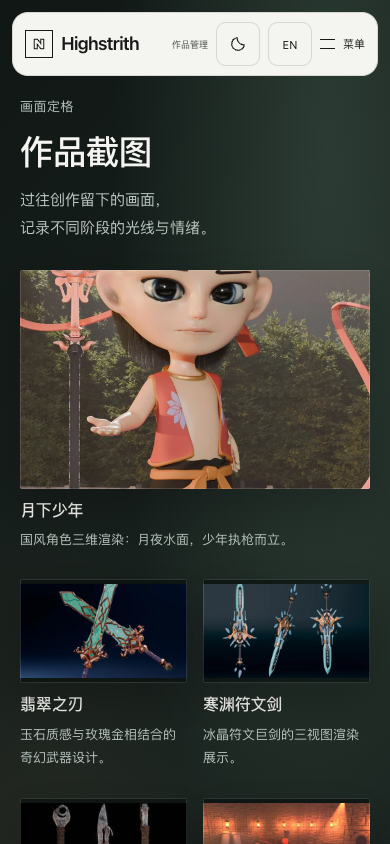
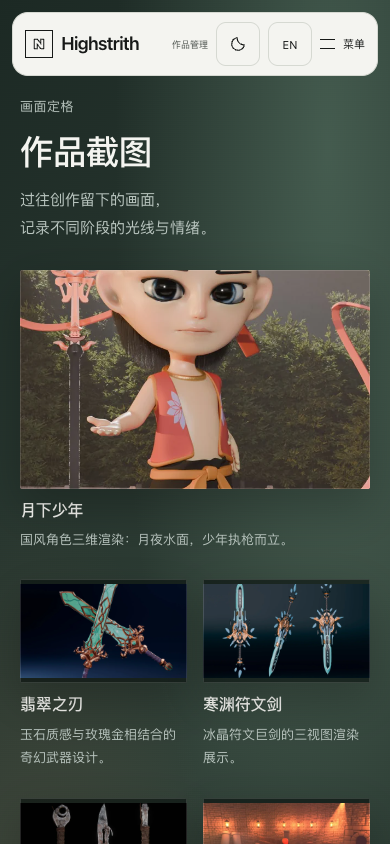
fix: distinguish dark chapters by theme

diff --git a/assets/chapter-scenes.css b/assets/chapter-scenes.css
@@ -9,14 +9,14 @@
   isolation: isolate;
   overflow: clip;
   color: #fff;
-  background: #10251f;
+  background: #18372e;
 }
 .production-chapter-inner { min-width: 0; }
 .production-scene { position: absolute; z-index: -1; inset: 0; pointer-events: none; }
 .production-scene img { width: 100%; height: 100%; object-fit: cover; object-position: 62% center; }
 .production-scene::after {
   content: ''; position: absolute; inset: 0;
-  background: linear-gradient(180deg, rgb(5 15 14 / .6), transparent 44%), linear-gradient(0deg, rgb(5 15 14 / .96), rgb(5 15 14 / .2) 80%), linear-gradient(90deg, rgb(7 28 24 / .88), transparent 85%);
+  background: linear-gradient(180deg, rgb(9 25 22 / .52), transparent 42%), linear-gradient(0deg, rgb(10 24 20 / .92), rgb(10 24 20 / .18) 80%), linear-gradient(90deg, rgb(18 45 37 / .78), transparent 84%);
 }
 #in-progress .section-heading { margin-bottom: clamp(32px, 5svh, 56px); }
 #in-progress .section-heading h2 { font-size: clamp(36px, 3.6vw, 56px); }
@@ -114,9 +114,9 @@
 }
 #home > #stills::before {
   background:
-    radial-gradient(ellipse at 84% 10%, rgb(87 119 101 / .34), transparent 46%),
-    radial-gradient(ellipse at 8% 82%, rgb(158 105 69 / .14), transparent 42%),
-    linear-gradient(135deg, #101715 0%, #1b2420 52%, #101514 100%);
+    radial-gradient(ellipse at 84% 10%, rgb(107 141 121 / .44), transparent 46%),
+    radial-gradient(ellipse at 8% 82%, rgb(180 124 84 / .2), transparent 42%),
+    linear-gradient(135deg, #1c2924 0%, #314138 52%, #18241f 100%);
 }
 #stills .still-media {
   background: rgb(4 10 8 / .58);
@@ -154,8 +154,8 @@
 /* Portrait and contact remain quieter anchors at the end of the page. */
 #home > #about {
   background:
-    radial-gradient(ellipse at 22% 44%, rgb(70 91 79 / .36), transparent 44%),
-    linear-gradient(120deg, #151c19 0%, #111413 100%);
+    radial-gradient(ellipse at 22% 44%, rgb(88 112 99 / .42), transparent 44%),
+    linear-gradient(120deg, #25302a 0%, #171d1a 100%);
 }
 #home > #contact::before {
   background:

diff --git a/assets/theme.css b/assets/theme.css
@@ -29,6 +29,15 @@
 [data-theme="dark"] .motion-marquee { background: var(--paper); color: var(--muted); border-color: var(--line); }
 [data-theme="dark"] :is(.text-link, .hero-foot a, .footer-top a, .contact-details a, .tools-secondary a, .progress-return, .progress-index a, .comment-toggle, .view-switch button, .production-strip-controls button, .work-filters button, #musicToggle) { text-decoration-color: currentColor; }
 /* Homepage ambient chapters keep the same spatial hierarchy in dark mode. */
+[data-theme="dark"] #home > #in-progress {
+  background: #07110e;
+}
+[data-theme="dark"] #in-progress .production-scene::after {
+  background:
+    linear-gradient(180deg, rgb(0 7 5 / .74), transparent 42%),
+    linear-gradient(0deg, rgb(0 7 5 / .98), rgb(0 7 5 / .24) 80%),
+    linear-gradient(90deg, rgb(2 18 13 / .94), transparent 84%);
+}
 [data-theme="dark"] #home > .hero::before {
   background:
     radial-gradient(ellipse at 16% 8%, rgb(157 100 65 / .2), transparent 42%),
@@ -43,9 +52,9 @@
 }
 [data-theme="dark"] #home > #stills::before {
   background:
-    radial-gradient(ellipse at 84% 10%, rgb(67 100 81 / .3), transparent 46%),
-    radial-gradient(ellipse at 8% 82%, rgb(120 77 51 / .14), transparent 42%),
-    linear-gradient(135deg, #0c1210 0%, #151d19 52%, #0c1110 100%);
+    radial-gradient(ellipse at 84% 10%, rgb(41 73 56 / .26), transparent 46%),
+    radial-gradient(ellipse at 8% 82%, rgb(91 57 37 / .08), transparent 42%),
+    linear-gradient(135deg, #070c0a 0%, #0e1612 52%, #060a09 100%);
 }
 [data-theme="dark"] #home > #projects {
   background:
@@ -61,8 +70,8 @@
 }
 [data-theme="dark"] #home > #about {
   background:
-    radial-gradient(ellipse at 22% 44%, rgb(53 76 62 / .32), transparent 44%),
-    linear-gradient(120deg, #121815 0%, #0e1110 100%);
+    radial-gradient(ellipse at 22% 44%, rgb(31 56 43 / .34), transparent 44%),
+    linear-gradient(120deg, #0a100d 0%, #070a09 100%);
 }
 [data-theme="dark"] #home > #contact::before {
   background:

diff --git a/index.html b/index.html
@@ -25,9 +25,9 @@
   <link rel="stylesheet" href="assets/director-word.css?v=20261030-word2">
   <link rel="stylesheet" href="assets/contact-rows.css?v=20261030-rows3">
   <link rel="stylesheet" href="assets/motion-extra.css?v=20261030-m2">
-  <link rel="stylesheet" href="assets/theme.css?v=20261101-ambient1">
+  <link rel="stylesheet" href="assets/theme.css?v=20261101-ambient2">
   <link rel="stylesheet" href="assets/home-modules.css?v=20261101-reel-screen">
-  <link rel="stylesheet" href="assets/chapter-scenes.css?v=20261101-ambient1">
+  <link rel="stylesheet" href="assets/chapter-scenes.css?v=20261101-ambient2">
 </head>
 <body>
   <a class="skip-link" href="#works" data-i18n="skip">跳转到作品</a>

diff --git a/tests/chapter-scenes-smoke.py b/tests/chapter-scenes-smoke.py
@@ -108,6 +108,26 @@ class ChapterScenes(unittest.TestCase):
         self.assertIn('radial-gradient', page.locator('#works').evaluate('e=>getComputedStyle(e,"::before").backgroundImage'))
         self.assertLessEqual(page.evaluate('document.documentElement.scrollWidth'), 1440)
 
+    def test_dark_feature_chapters_shift_between_light_and_dark_themes(self):
+        page = self.page()
+        selectors = {
+            'progress': ('#in-progress .production-scene', '::after'),
+            'stills': ('#stills', '::before'),
+            'about': ('#about', None),
+        }
+        def backdrop_styles():
+            values = {}
+            for key, (selector, pseudo) in selectors.items():
+                values[key] = page.locator(selector).evaluate(
+                    '(e,pseudo)=>getComputedStyle(e,pseudo).backgroundImage', pseudo)
+            return values
+        light = backdrop_styles()
+        page.locator('#themeToggle').click()
+        expect(page.locator('html')).to_have_attribute('data-theme', 'dark')
+        dark = backdrop_styles()
+        for key in selectors:
+            self.assertNotEqual(light[key], dark[key], key)
+
     def test_no_script_retains_scene_link_and_film_entries(self):
         page = self.page(390, 844, javascript=False)
         expect(page.locator('[data-production-feature]')).to_have_attribute('href', 'assets/progress/weishizhinuo/forest-city.webp')

diff --git a/当前进度.md b/当前进度.md
@@ -6,6 +6,7 @@
 - 实现集中在 `assets/chapter-scenes.css` 与 `assets/theme.css`：page-width 章节通过伪元素全幅铺开，整屏章节直接使用多层径向与线性渐变；不新增图片请求、第三方依赖或JS调度，深浅主题、手机与减少动态继续使用原结构。制作区与作品区之间的跑马灯同步为深绿过渡，避免白色硬切。首页CSS引用升级为`20261101-ambient1`。
 - 新增背景行为验收后再实现，先红后绿。最终相关检查全部通过：章节6、整屏3、排版2、制作图带9、精选动效5、联系4、弹性标题4、Pages打包2，共35项；另以真实Chrome核对1440×900桌面、390×844手机及深色主题截图，桌面／手机横向宽度均等于视口。三套测试并发时曾有3个图带用例等待networkidle超时，单独重跑9项全部通过，判断为本地并发等待问题而非页面回归。
 - 关键截图保存在`docs/ambient-chapters-20261101/`。本轮仅本地修改与提交，未推送或发布，独立项目页、独立制作页与简历页暂未套用首页背景系统。
+- 用户随后指出「正在制作」「作品截图」等深色章节切换深浅模式几乎一样。已将深色章节改为跟随主题的双版本：浅色为偏灰绿、带暖光的炭绿画廊，深色才进入接近影厅的黑，并加强边缘暗角和冷色罩层；关于区也同步区分。新增主题差异验收先复现制作区两套主题背景完全相同，再验证三区均不同；最终36项相关检查全部通过（章节7、整屏3、排版2、图带9、联系4、标题4、精选5、Pages2），桌面与手机深浅截图已保存。
 
 ## 2026-11-01 压缩、可见区域播放与媒体上云（已上线）
 

diff --git a/docs/chapter-scenes-20261101.md b/docs/chapter-scenes-20261101.md
@@ -8,6 +8,8 @@
 
 新增行为验收先红后绿，随后章节6、整屏3、排版2、制作图带9、精选动效5、联系4、弹性标题4、Pages打包2共35项通过。真实Chrome核对1440×900桌面、390×844手机与深色主题，桌面／手机横向宽度均为视口宽。三套浏览器测试并发时曾有3个图带用例因等待networkidle超时，单独重跑9项全部通过。追加截图保存在`ambient-chapters-20261101/`，本轮仅本地提交，未推送或发布。
 
+用户随后指出「正在制作」「作品截图」等深色章节切换深浅模式几乎一样。修正为真正的主题双版本：浅色模式的制作场景罩层、截图画廊和关于区是偏灰绿、带暖光的炭色；深色模式进一步压到近黑、加强边缘暗角和冷色阴影。新增真实浏览器用例先复现制作区两主题背景完全相同，再验证三个区域均发生变化；最终相关36项通过，桌面与手机深浅对照保存在`ambient-chapters-20261101/`的`*-light.png`、`*-dark.png`。
+
 ## 参考与复用评估
 
 开始制作前查找了开源展示方案：[Cimaise](https://github.com/fabiodalez-dev/Cimaise)的摄影作品展示和图带组织，以及[Enhance设计作品集](https://enhance.dev/blog/posts/2023-06-20-enhance-design-portfolio)的大图配缩略图／原生回退思路。当前静态站已有15张制作图、轮播、GSAP与原生大图弹窗，接入图库CMS或另一个轮播会重复已有功能。因此仅参考版式思路，没有复制第三方代码或素材，没有增加库或许可义务。

diff --git a/软件架构.md b/软件架构.md
@@ -4,6 +4,7 @@
 
 - `assets/chapter-scenes.css`在既有三个场景章节后追加首页共享环境层：page-width章节使用伪元素按`calc(50% - 50vw)`全幅铺开，整屏章节直接使用背景；所有内容显式位于环境层上方。样式仅由多层径向／线性渐变、边框和阴影构成，不引入图片、字体、第三方库、JS调度或额外网络请求。
 - 浅色模式分为首屏／全部作品暖纸灰绿、作品截图深色画廊、导演台冷灰绿、片单暖色放映室、关于与联系克制衔接；`assets/theme.css`为同组区域提供暗色变体。`chapter-scenes-smoke.py`以真实浏览器核对伪元素全幅位置、径向背景、截图区文字颜色、暗色模式和无横向溢出，原交互回归继续负责图带、精选、标题、联系与Pages打包。
+- 深色章节同样区分主题，而不是固定一套深色：浅色模式的制作场景罩层、截图画廊和关于区使用偏灰绿炭色与暖光，深色模式改近黑影厅色、提高边缘遮暗；新增用例分别读取`#in-progress .production-scene::after`、`#stills::before`与`#about`在两主题下的背景并断言不同。
 
 ## 2026-11-01 可见媒体与 OSS/CDN 发布转换
 

diff --git a/产品需求.md b/产品需求.md
@@ -4,6 +4,7 @@
 
 - 用户最满意首页带真实场景的「正在制作」章节，并要求其他区块向这种完整场景感靠近；同时确认不需要每个页面单独生成一张底图。首页以共享环境背景系统提升：不新增媒体，用多层CSS渐变、柔光、明暗过渡和现有图片延展，保留白色V2品牌、全部内容、双语、媒体与交互。
 - 「正在制作」保持最深、最具叙事性的真实场景；作品浏览继续浅暖纸色，作品截图可转深色画廊，导演台与片单采用不同的冷灰／暖色环境光，关于与联系只做克制衔接。先完成首页本地版本并等待用户审核，独立项目页、独立制作页和简历页不在本轮范围。
+- 用户指出深色章节在深浅模式下几乎相同。深色章节必须有清楚的主题双版本：浅色模式保留偏灰绿、带暖光的画廊层次，深色模式进一步压暗并加强边缘暗角；不能只切换导航而场景氛围不变。
 
 ## 2026-11-01 媒体压缩、可见区域播放与阿里云分发
 
